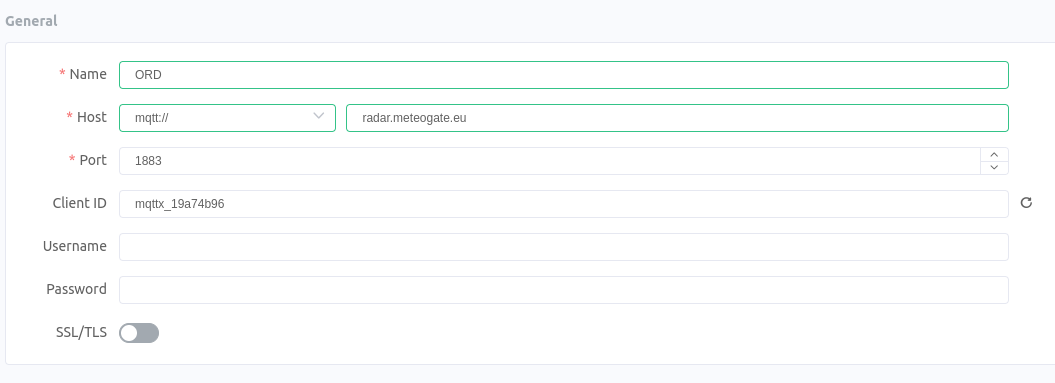
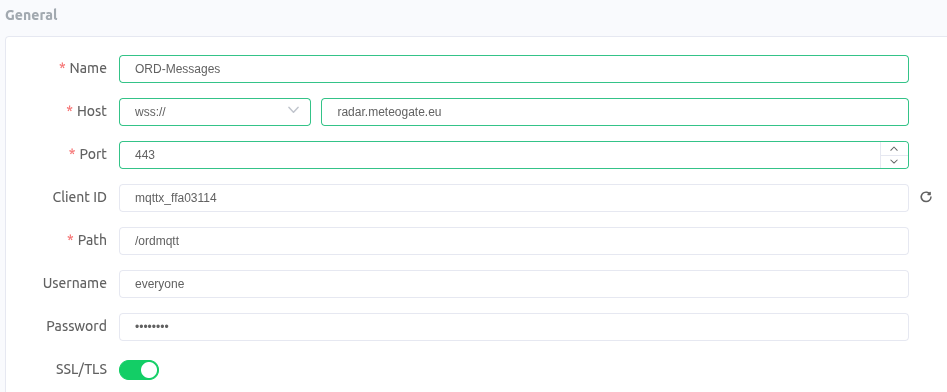
Update MQTT notification messages

diff --git a/docs/4-ORD-API-subscribing-MQTTX.md b/docs/4-ORD-API-subscribing-MQTTX.md
@@ -15,12 +15,43 @@ Once onboarding has been completed, access will be provided through **MeteoGate*
 
 ## MQTT Stream Details
 
+- **Protocol**: `wss://`
+- **Host**: `radar.meteogate.eu`
+- **Port**: `443`
+- **Path**: `/ordmqtt`
+- **SSL/TLS**: `Yes`
+- **Authentication**
+   - **username**: `everyone`
+   - **password**: `everyone`
+- **Topics**: The topics hierarchy is the following: `ORD/naming_authority/wigosId/quantity`. Choose or specify the topic you want to subscribe. 
+   - **Examples**
+      - Subscribe Hurum DBZH data: `ORD/no.met/0-578-0-nohur/DBZH`
+      - Subscribe all Finnish DBZH data: `ORD/fi.fmi/+/DBZH`
+      - Subscribe OPERA accumulated precipitation: `ORD/eu.eumetnet/0-20010-0-OPERA/ACRR`
+      - Subscribe OPERA product: `ORD/eu.eumetnet/#`
+      - Use the wildcard `#` to subscribe to all topics. 
+
+
+### This access mode is deprecated and will be removed in future versions
 - **Protocol**: `mqtt://`
 - **Host**: `radar.meteogate.eu`
 - **Port**: `1883`
 - **SSL/TLS**: Not required (unencrypted connection)
 - **Authentication**: None (anonymous connection, no username or password)
-- **Topics**: Choose or specify the topic you want to subscribe to (e.g., `ORD/no.met`). Use the wildcard `#` to subscribe to all topics.
+
+## WIS 2.0 MQTT Stream Details (Metadata only)
+
+- **Protocol**: `wss://`
+- **Host**: `radar.meteogate.eu`
+- **Port**: `443`
+- **Path**: `/wis2mqtt`
+- **SSL/TLS**: `Yes`
+- **Authentication**
+   - **username**: `everyone`
+   - **password**: `everyone`
+- **Topics**: 
+   - **Metadata**: `origin/a/wis2/eu-eumetnet-weather-radar/metadata/core/weather/experimental/weather-radar`
+   - **Data**: `origin/a/wis2/eu-eumetnet-weather-radar/data/core/weather/experimental/weather-radar`
 
 ---
 
@@ -42,10 +73,12 @@ Once onboarding has been completed, access will be provided through **MeteoGate*
 3. Fill in the connection details:
    - **Client ID**: Provide a unique identifier for your client (e.g., `mqttx_client_1`).
    - **Host**: `radar.meteogate.eu`
-   - **Port**: `1883`
-   - **Protocol**: `MQTT` (not `MQTTS`, as SSL/TLS is not required).
-   - **Username**: Leave this blank (no authentication required).
-   - **Password**: Leave this blank (no authentication required).
+   - **Port**: `443`
+   - **Protocol**: `wss` Secure websocket
+   - **SSL/TLS**: `On`
+   - **Path**: `/ord2mqtt`
+   - **Username**: `everyone`
+   - **Password**: `everyone`
 
 4. Click **Connect** to establish the connection. The status of the connection will change to **Connected** if successful.
 
